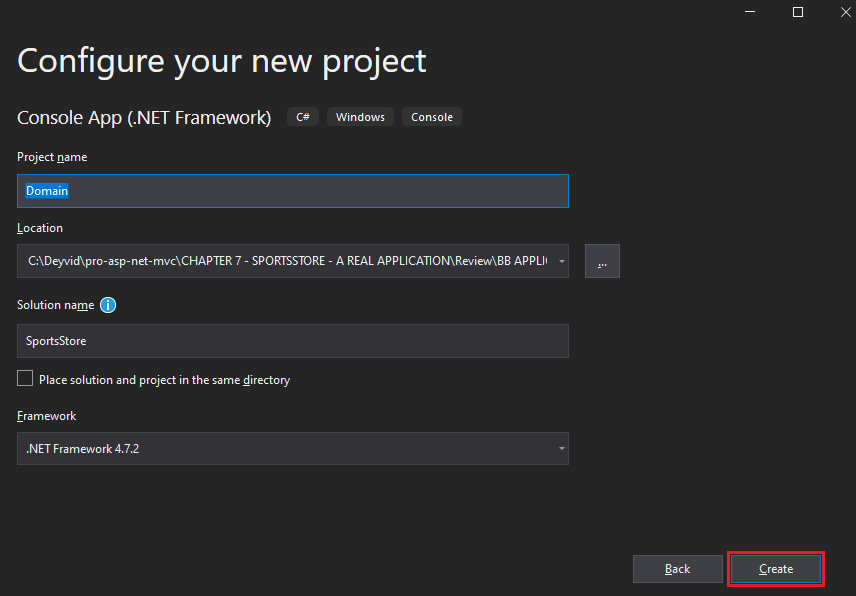
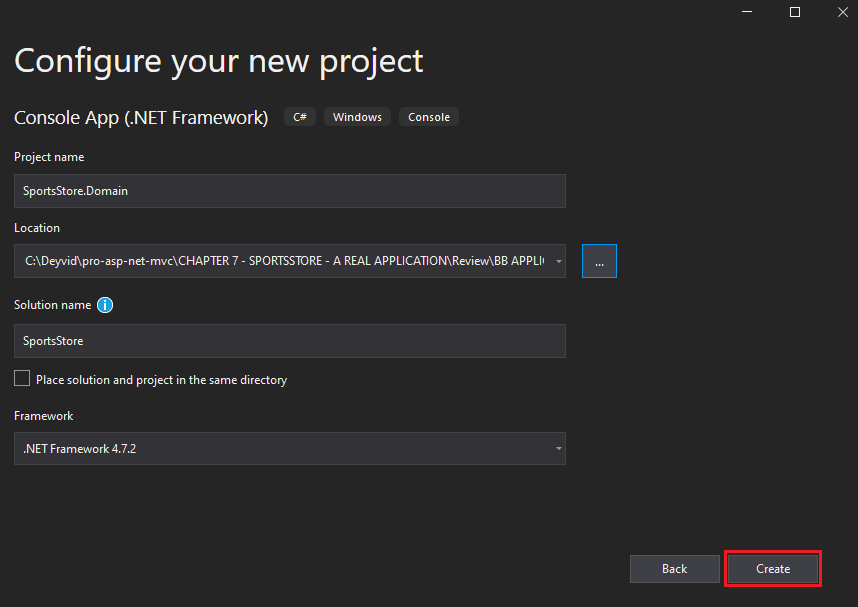
Figure 7-1. Creating the Solution container and SportsStore.Domain project
CHAPTER 07 - SPORTSSTORE - A REAL APPLICATION
    GETTING STARTED
        CREATING THE VISUAL STUDIO SOLUTION AND PROJECTS
            Figure 7-A. Create a new project
            Figure 7-B. Console App (.NET Framework)
            Figure 7-1. Creating the Solution container and SportsStore.Domain project

diff --git a/CHAPTER 7 - SPORTSSTORE - A REAL APPLICATION/Review/BB APPLICATION/SportsStore/SportsStore.Domain/Properties/AssemblyInfo.cs b/CHAPTER 7 - SPORTSSTORE - A REAL APPLICATION/Review/BB APPLICATION/SportsStore/SportsStore.Domain/Properties/AssemblyInfo.cs
@@ -5,11 +5,11 @@ using System.Runtime.InteropServices;
 // General Information about an assembly is controlled through the following
 // set of attributes. Change these attribute values to modify the information
 // associated with an assembly.
-[assembly: AssemblyTitle("Domain")]
+[assembly: AssemblyTitle("SportsStore.Domain")]
 [assembly: AssemblyDescription("")]
 [assembly: AssemblyConfiguration("")]
 [assembly: AssemblyCompany("")]
-[assembly: AssemblyProduct("Domain")]
+[assembly: AssemblyProduct("SportsStore.Domain")]
 [assembly: AssemblyCopyright("Copyright ©  2022")]
 [assembly: AssemblyTrademark("")]
 [assembly: AssemblyCulture("")]
@@ -20,7 +20,7 @@ using System.Runtime.InteropServices;
 [assembly: ComVisible(false)]
 
 // The following GUID is for the ID of the typelib if this project is exposed to COM
-[assembly: Guid("0b534924-9ffe-43f0-ad0a-1f256d8d8135")]
+[assembly: Guid("e72b62fe-e0ff-4c7e-8b79-c77d02723254")]
 
 // Version information for an assembly consists of the following four values:
 //

diff --git a/CHAPTER 7 - SPORTSSTORE - A REAL APPLICATION/Review/BB APPLICATION/SportsStore/SportsStore.Domain/Program.cs b/CHAPTER 7 - SPORTSSTORE - A REAL APPLICATION/Review/BB APPLICATION/SportsStore/SportsStore.Domain/Program.cs
@@ -1,0 +1,15 @@
+using System;
+using System.Collections.Generic;
+using System.Linq;
+using System.Text;
+using System.Threading.Tasks;
+
+namespace SportsStore.Domain
+{
+    class Program
+    {
+        static void Main(string[] args)
+        {
+        }
+    }
+}

diff --git a/CHAPTER 7 - SPORTSSTORE - A REAL APPLICATION/Review/AA SUMMARY/AA GETTING STARTED.MD b/CHAPTER 7 - SPORTSSTORE - A REAL APPLICATION/Review/AA SUMMARY/AA GETTING STARTED.MD
@@ -24,10 +24,10 @@ To create a *Visual Studio Solution* follow these steps
             <img src="ch07-Pictures/Figure 7-B.png" /><br />
             <b>Figure 7-B.</b> Console App (.NET Framework)
         </p>  
-    3. On the screen *Configure your new project*, in the field *Project name* type *Domain* to create the *Domain Model project*. In the field *Location*, set the directory of your choice. In the *Solution name* field, set SportsStore and click the *Create* button, as shown in the Figure 7-1.
+    3. On the screen *Configure your new project*, in the field *Project name* type *SportsStore.Domain* to create the *Domain Model project*. In the field *Location*, set the directory of your choice. In the *Solution name* field, set SportsStore and click the *Create* button, as shown in the Figure 7-1.
         <p align="center">
             <img src="ch07-Pictures/Figure 7-1.png" /><br />
-            <b>Figure 7-1.</b> Creating the Solution container and Domain project
+            <b>Figure 7-1.</b> Creating the Solution container and SportsStore.Domain project
         </p>  
 
 ### INSTALLING THE TOOL PACKAGES
@@ -40,4 +40,4 @@ CHAPTER 07 - SPORTSSTORE - A REAL APPLICATION
         CREATING THE VISUAL STUDIO SOLUTION AND PROJECTS
             Figure 7-A. Create a new project
             Figure 7-B. Console App (.NET Framework)
-            Figure 7-1. Creating the Solution container and Domain project
+            Figure 7-1. Creating the Solution container and SportsStore.Domain project
